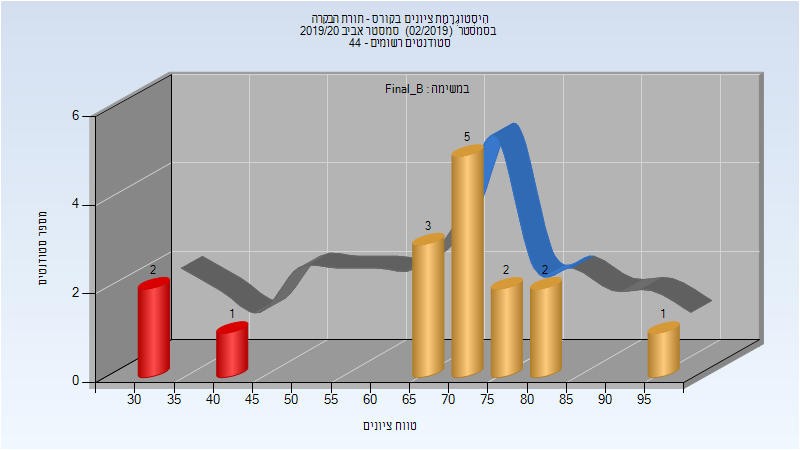
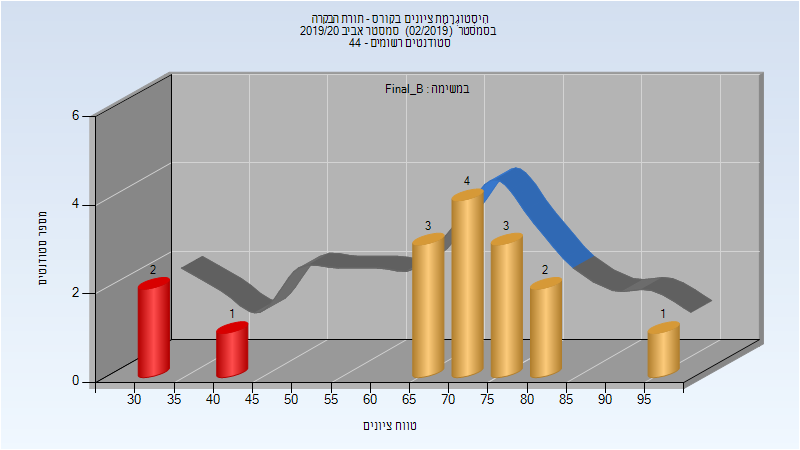
Deploy michael-maltsev/technion-histograms to github.com/michael-maltsev/technion-histograms.git:gh-pages

Changed region(s): [[0.5625, 0.28, 0.75, 0.6533]]

diff --git a/035188/index.html b/035188/index.html
@@ -483,7 +483,7 @@
 <td>56</td>
 <td>31</td>
 <td>93</td>
-<td>55.188</td>
+<td>55.312</td>
 <td>55.5</td>
 </tr>
 </tbody>
@@ -509,7 +509,33 @@
 <td>81</td>
 <td>31</td>
 <td>97</td>
-<td>68.062</td>
+<td>68.125</td>
+<td>74</td>
+</tr>
+</tbody>
+</table>
+<h3>סופי</h3>
+<p><img src="201902/Finals.png" alt="201902 Finals" /></p>
+<table>
+<thead>
+<tr>
+<th>סטודנטים</th>
+<th>עברו/נכשלו</th>
+<th>אחוז עוברים</th>
+<th>ציון מינימלי</th>
+<th>ציון מקסימלי</th>
+<th>ממוצע</th>
+<th>חציון</th>
+</tr>
+</thead>
+<tbody>
+<tr>
+<td>39</td>
+<td>29/10</td>
+<td>74</td>
+<td>10</td>
+<td>100</td>
+<td>65.872</td>
 <td>74</td>
 </tr>
 </tbody>

diff --git a/035033/index.html b/035033/index.html
@@ -362,5 +362,31 @@
 </tr>
 </tbody>
 </table>
+<h3>סופי</h3>
+<p><img src="201902/Finals.png" alt="201902 Finals" /></p>
+<table>
+<thead>
+<tr>
+<th>סטודנטים</th>
+<th>עברו/נכשלו</th>
+<th>אחוז עוברים</th>
+<th>ציון מינימלי</th>
+<th>ציון מקסימלי</th>
+<th>ממוצע</th>
+<th>חציון</th>
+</tr>
+</thead>
+<tbody>
+<tr>
+<td>56</td>
+<td>48/8</td>
+<td>86</td>
+<td>12</td>
+<td>100</td>
+<td>81.804</td>
+<td>87</td>
+</tr>
+</tbody>
+</table>
   </body>
 </html>

diff --git a/035188/README.md b/035188/README.md
@@ -148,7 +148,7 @@
 
 | סטודנטים | עברו/נכשלו | אחוז עוברים | ציון מינימלי | ציון מקסימלי | ממוצע | חציון |
 | ---- | ---- | ---- | ---- | ---- | ---- | ---- |
-| 16 | 9/7 | 56 | 31 | 93 | 55.188 | 55.5 |
+| 16 | 9/7 | 56 | 31 | 93 | 55.312 | 55.5 |
 
 ### סופי מועד ב'
 
@@ -156,5 +156,13 @@
 
 | סטודנטים | עברו/נכשלו | אחוז עוברים | ציון מינימלי | ציון מקסימלי | ממוצע | חציון |
 | ---- | ---- | ---- | ---- | ---- | ---- | ---- |
-| 16 | 13/3 | 81 | 31 | 97 | 68.062 | 74 |
+| 16 | 13/3 | 81 | 31 | 97 | 68.125 | 74 |
+
+### סופי
+
+![201902 Finals](201902/Finals.png)
+
+| סטודנטים | עברו/נכשלו | אחוז עוברים | ציון מינימלי | ציון מקסימלי | ממוצע | חציון |
+| ---- | ---- | ---- | ---- | ---- | ---- | ---- |
+| 39 | 29/10 | 74 | 10 | 100 | 65.872 | 74 |
 

diff --git a/035033/README.md b/035033/README.md
@@ -111,3 +111,11 @@
 | ---- | ---- | ---- | ---- | ---- | ---- | ---- |
 | 14 | 10/4 | 71 | 33 | 91 | 66.571 | 72.5 |
 
+### סופי
+
+![201902 Finals](201902/Finals.png)
+
+| סטודנטים | עברו/נכשלו | אחוז עוברים | ציון מינימלי | ציון מקסימלי | ממוצע | חציון |
+| ---- | ---- | ---- | ---- | ---- | ---- | ---- |
+| 56 | 48/8 | 86 | 12 | 100 | 81.804 | 87 |
+
